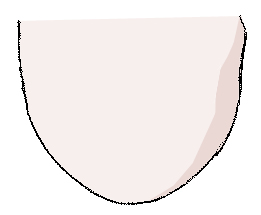
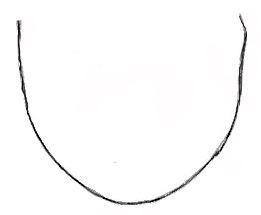
and a funtion to change threshold for canny

diff --git a/FaceLocation/FaceSketch.cpp b/FaceLocation/FaceSketch.cpp
@@ -20,7 +20,7 @@ CFaceSketch::~CFaceSketch(void)
 
 void CFaceSketch::componentSketch(faceElement element, std::string componetName)
 {
-	string eyeTemplateNumber = "2";
+	string eyeTemplateNumber = "1";
 	string browTemplateNumber = "7";
 	string noseTemplateNumber = "1";
 	string mouthTemplateNumber = "31";
@@ -186,7 +186,7 @@ bool CFaceSketch::isBackground(MatIterator_<Vec3b> point){
 	return ((*point)[0] == 1) && ((*point)[1] == 2) && ((*point)[2] == 3);
 }
 
-void CFaceSketch::combineSketch()
+void CFaceSketch::combineComponent()
 {
 	Mat face(height, width, CV_8UC3, Scalar(1,2,3));
 	addTopToBottom(wholeFace[LEFTBROW], face);
@@ -196,9 +196,18 @@ void CFaceSketch::combineSketch()
 	addTopToBottom(wholeFace[RIGHTEYE], face);
 	addTopToBottom(wholeFace[NOSE], face);
 	addTopToBottom(face, wholeFace[PROFIILE]);
-	//Mat whole(height, width, CV_8UC3, Scalar::all(255));
-	addTopToBottom(wholeFace[PROFIILE], bgCurve);
-	
+	Mat facialSetch(height, width, CV_8UC3, Scalar::all(255));
+	addTopToBottom(wholeFace[PROFIILE], facialSetch);
+	cv::imwrite("temp\\wholeFace.jpg",facialSetch);
+}
+void CFaceSketch::combineSketch(bool combineFace)
+{
+	if (combineFace == true)
+	{
+		combineComponent();
+	}
+	Mat facialSketch = imread("temp\\wholeFace.jpg");
+	addTopToBottom(facialSketch, bgCurve);
 	cv::imwrite("temp\\wholeSketch.jpg", bgCurve);
 }
 
@@ -224,7 +233,7 @@ void CFaceSketch::addTopToBottom( Mat &top, Mat &botom)
 
 }
 
-void CFaceSketch::backgroudSketch( string srcImgPath )
+void CFaceSketch::backgroudSketch( string srcImgPath, int thresholdValue)
 {
 	Mat srcImg = imread(srcImgPath);
 	if(srcImg.empty()) {
@@ -232,11 +241,17 @@ void CFaceSketch::backgroudSketch( string srcImgPath )
 		return;
 	}
 	Mat tempImg1, tempImg2;
-	cv::Canny(srcImg, tempImg1, 50, 200, 3);
-	cvNot(&tempImg1, &tempImg2);
-	cv::cvtColor(tempImg1, bgCurve, CV_GRAY2BGR );
+	cv::Canny(srcImg, tempImg1, thresholdValue, thresholdValue*4, 3);
+	
+	cv::bitwise_not(tempImg1, tempImg2);
+	cv::cvtColor(tempImg2, bgCurve, CV_GRAY2BGR );
+
 }
 
-
+void CFaceSketch::updateBackground(string srcImgPath, int thresholdValue )
+{
+	backgroudSketch(srcImgPath, thresholdValue);
+	combineSketch(false);
+}
 
 

diff --git a/FaceLocation/mainwindow.cpp b/FaceLocation/mainwindow.cpp
@@ -73,6 +73,7 @@ void MainWindow::on_alignAction_triggered()
 	isAligned = true;
 	ui->sketchAction->setEnabled(isAligned);
 	setWindowModified(true);
+	ui->alignAction->setDisabled(true);
 	delete[] ptsPos;
 }
 
@@ -99,6 +100,7 @@ void MainWindow::on_sketchAction_triggered()
 		ui->rightGraphicsView->show();
 		ui->rightGraphicsView->setMouseTracking(true);
 		ui->renderAction->setEnabled(true);
+		ui->templateAreaWidget->setEnabled(true);
 		
 	}
 
@@ -260,6 +262,8 @@ void MainWindow::on_renderAction_triggered()
 {
 	QMessageBox::information(this,"Face Location", "Video rendering completed");
 	ui->stackedWidget->setCurrentIndex(1);
+	ui->sketchAction->setDisabled(true);
+	ui->templateAreaWidget->setDisabled(true);
 }
 
 void MainWindow::initList( QListWidget* widgetList, QString filePath )
@@ -286,4 +290,25 @@ void MainWindow::initList( QListWidget* widgetList, QString filePath )
 
 }
 
+void MainWindow::on_thresholdSlider_valueChanged( int value )
+{
+	CFaceSketch faceSketch(image->width(), image->height());
+	faceSketch.updateBackground((const char *)curFile.toLocal8Bit(), value);
+
+	QImage* rightImage = new QImage();
+	if(rightImage->load("temp/wholeSketch.jpg"))
+	{
+		this->rightGraphicsScene->clear();
+		
+		QGraphicsPixmapItem* rightImgItem = new QGraphicsPixmapItem();
+		int width = ui->rightGraphicsView->width();
+		int hight = ui->rightGraphicsView->height();
+		rightImgItem->setPixmap(QPixmap::fromImage(*rightImage));
+		rightGraphicsScene->addItem(rightImgItem);
+		ui->rightGraphicsView->setEnabled(true);
+		ui->rightGraphicsView->setScene(rightGraphicsScene);
+		ui->rightGraphicsView->show();
+		ui->rightGraphicsView->setMouseTracking(true);		
+	}
+}
 

diff --git a/FaceLocation/FaceSketch.h b/FaceLocation/FaceSketch.h
@@ -9,6 +9,7 @@ public:
 	CFaceSketch(int imgwidth, int imgheight);
 	~CFaceSketch(void);
 	void sketchFace( QFaceModel* ASMModel, std::string srcImgPath );
+	void updateBackground(std::string srcImgPath, int thresholdValue);
 private:
 	int width, height;
 	QFaceModel* facemodel;
@@ -17,10 +18,11 @@ private:
 	enum faceElement{NOSE, LEFTEYE, RIGHTEYE, LEFTBROW, RIGHTBROW, MOUTH, PROFIILE};
 	void componentSketch(faceElement element, std::string componetName);
 	QVector<Node*> getElementNodes(faceElement element);
-	void backgroudSketch(std::string srcImgPath);
-	void combineSketch();
+	void backgroudSketch(std::string srcImgPath, int thresholdeValue = 60);
+	void combineSketch(bool combineFace = true);
 	void addTopToBottom( cv::Mat &top, cv::Mat &botom);
 	bool isWhite(cv::MatIterator_<cv::Vec3b> point);
 	bool isBackground(cv::MatIterator_<cv::Vec3b> point);
+	void combineComponent();
 };
 

diff --git a/FaceLocation/mainwindow.h b/FaceLocation/mainwindow.h
@@ -26,7 +26,7 @@ public:
 private slots:
     void on_openAction_triggered();
 	void openImage( QString fileName );
-	
+	void on_thresholdSlider_valueChanged(int value);
 	void on_alignAction_triggered();
 	void on_saveAction_triggered();
 	void on_closeAction_triggered();
